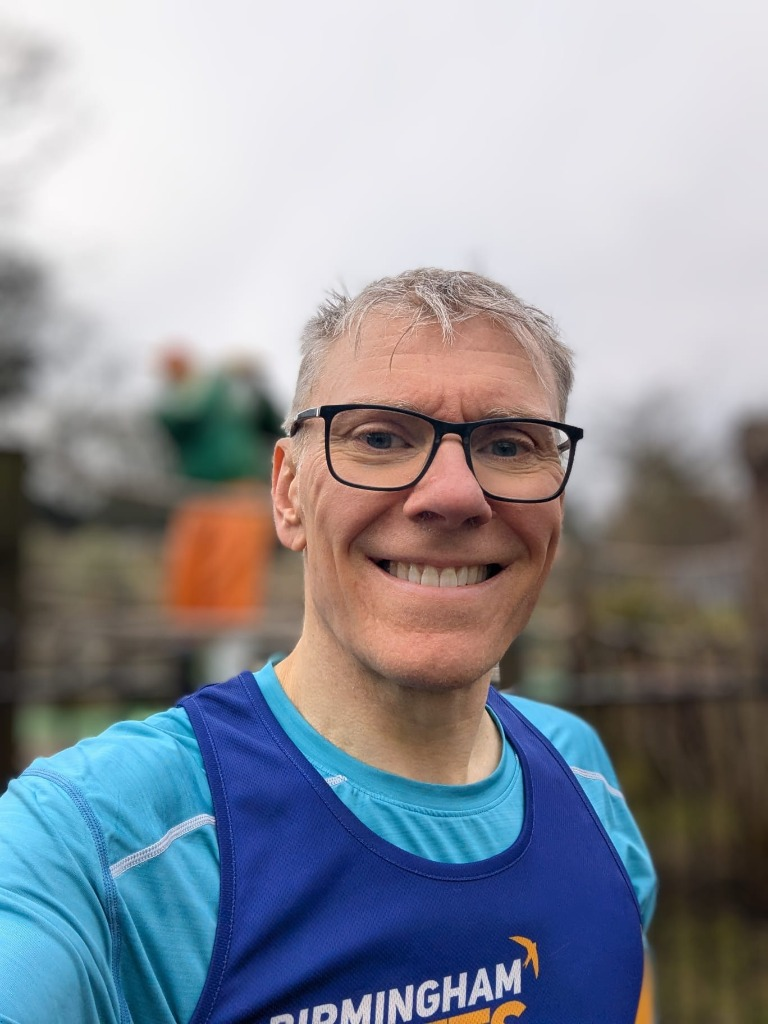
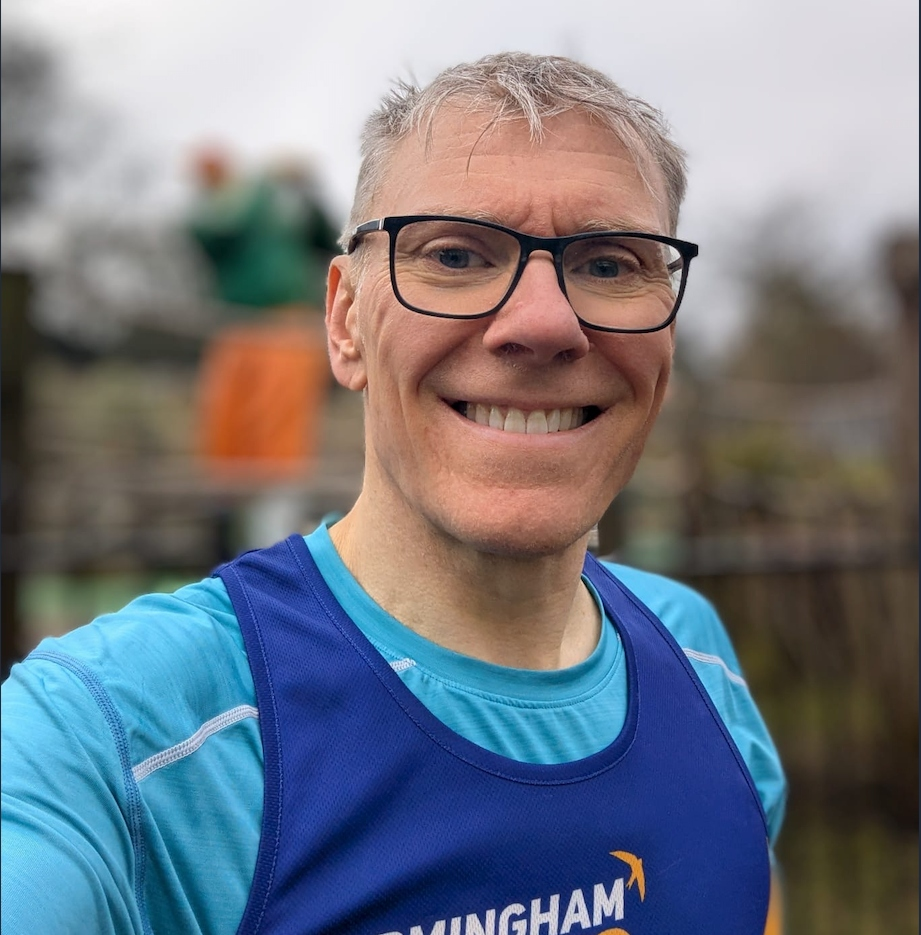
feat(coaches): reupload Christopher cropped square portrait

diff --git a/coaches-leaders.html b/coaches-leaders.html
@@ -127,7 +127,7 @@
         <!-- Coach 1 - Christopher Bainbridge -->
         <article class="coach-card">
           <div class="coach-img-wrap">
-            <img src="assets/portrait_coach_christopher.jpg?v=2" alt="Coach Christopher Bainbridge" class="coach-img" style="object-position: center 20%;">
+            <img src="assets/portrait_coach_christopher.jpg?v=3" alt="Coach Christopher Bainbridge" class="coach-img" style="object-position: center 20%;">
           </div>
           <span class="coach-badge">EA Coach in Running Fitness (CiRF)</span>
           <h3 class="coach-name">Christopher Bainbridge</h3>
@@ -191,7 +191,7 @@
         <article class="leader-card">
           <div class="leader-header">
             <div class="leader-avatar-wrap">
-              <img src="assets/portrait_coach_christopher.jpg?v=2" alt="Christopher Bainbridge" class="leader-avatar-img" style="object-position: center 20%;">
+              <img src="assets/portrait_coach_christopher.jpg?v=3" alt="Christopher Bainbridge" class="leader-avatar-img" style="object-position: center 20%;">
             </div>
             <div>
               <h3 class="leader-name">Christopher Bainbridge</h3>
